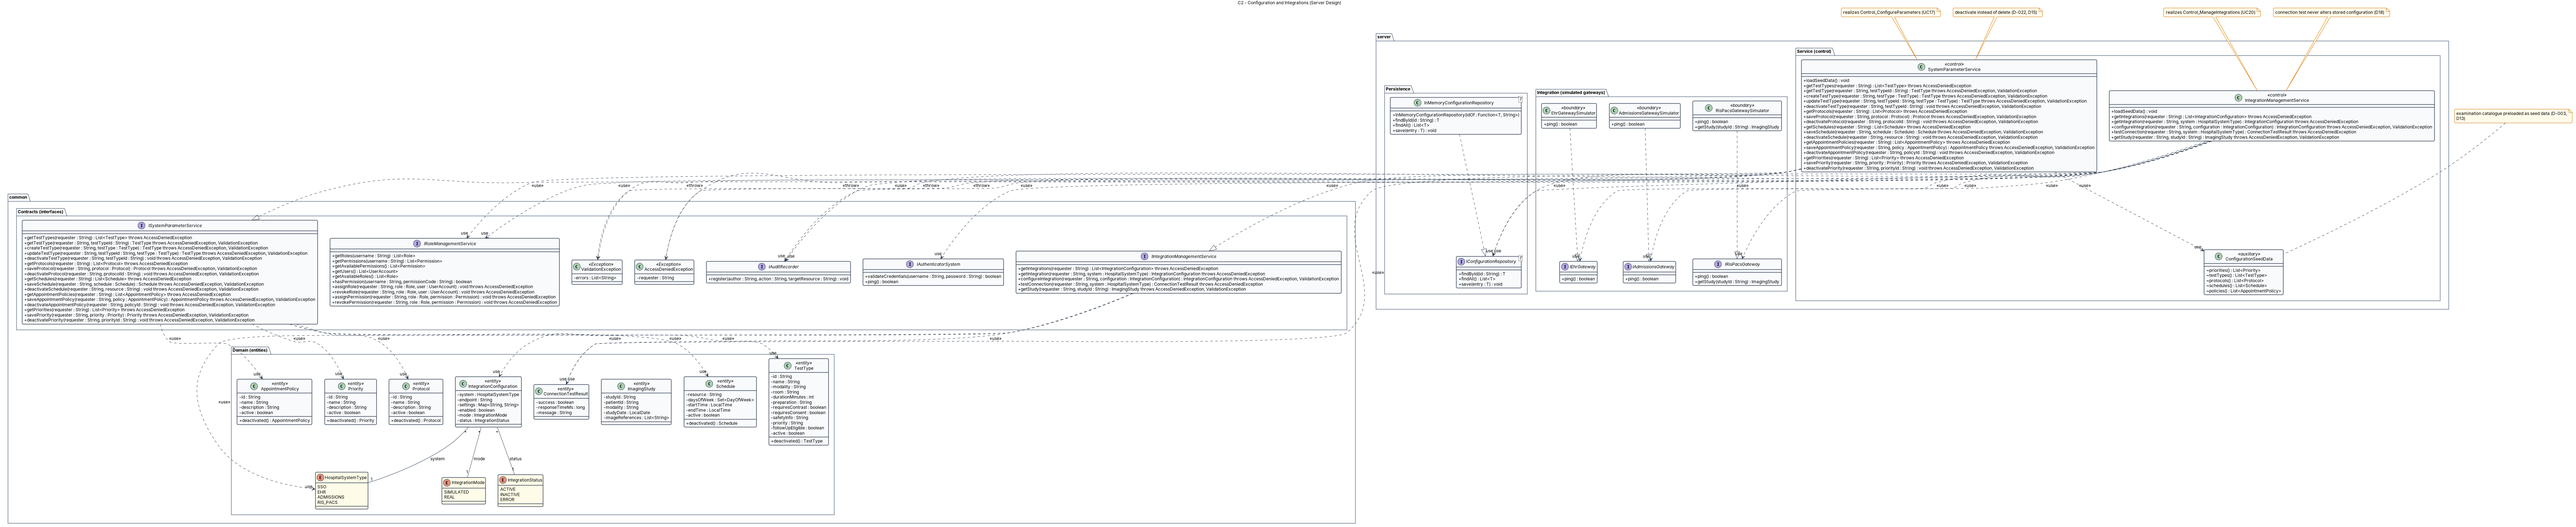
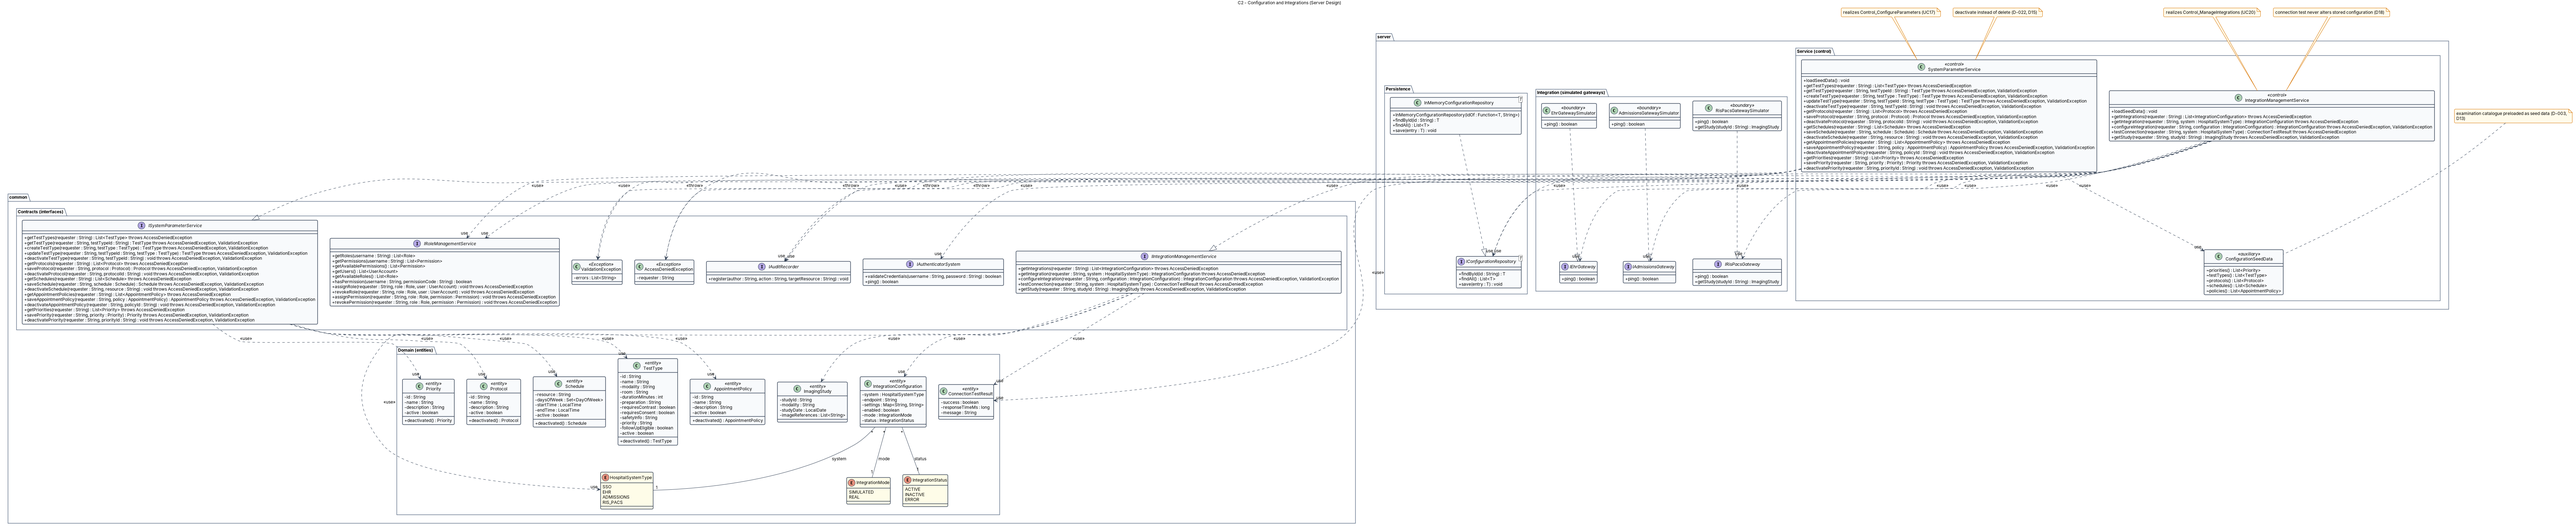
docs(UC09): apply review of #225 – reviewer access, audit, getStudy and C5 guards (#193)

diff --git a/doc/plans/C7-design.md b/doc/plans/C7-design.md
@@ -62,9 +62,9 @@ Open items of #193 §10 and AN-C7 D57–D67, answered by Denis (owner of C7 Desi
 | Component | Owner | Patch (code) | Diagram change in this PR |
 |---|---|---|---|
 | **C1** (`server-c1-access`) | Ignacio | Add `RECORD_EXECUTIONS` and `WRITE_REPORTS` to `InMemoryPermissionRepository` and grant both to `PHYSICIAN` in `InMemoryRoleRepository` (D57). | None (seed data) |
-| **C2** (`server-c2-configuration`, `common`) | C2 owner | 1) `SystemParameterService.getTestType` also accepts `RECORD_EXECUTIONS` and `WRITE_REPORTS`. 2) *(UC09)* New `ImagingStudy` in `common`, `getStudy(studyId)` on `IRisPacsGateway`/`RisPacsGatewaySimulator`, and `getStudy(requester, studyId)` on `IIntegrationManagementService`/`IntegrationManagementService`, requiring `WRITE_REPORTS` (D67). | Step 2: `C2-common.puml`, `C2-server-design.puml` |
+| **C2** (`server-c2-configuration`, `common`) | C2 owner | 1) `SystemParameterService.getTestType` also accepts `RECORD_EXECUTIONS` and `WRITE_REPORTS`. 2) *(UC09)* New `ImagingStudy` in `common`, `getStudy(studyId)` on `IRisPacsGateway`/`RisPacsGatewaySimulator`, and `getStudy(requester, studyId)` on `IIntegrationManagementService`/`IntegrationManagementService`, requiring `WRITE_REPORTS` (D67). Behaviour of `getStudy`: blank `studyId` → `ValidationException("The study is required")`; RIS/PACS integration not `ACTIVE` (UC20) → `ValidationException("RIS/PACS is not available")`; otherwise the simulator returns `ImagingStudy(studyId, "SIMULATED", LocalDate.now(clock), [studyId + "-IMG-1", studyId + "-IMG-2", studyId + "-IMG-3"])`. Audit `STUDY_ACCESSED` (`"STUDY:" + studyId`). | Step 2: `C2-common.puml`, `C2-server-design.puml` |
 | **C3** (`server-c3-patients`) | Denis | `PatientService.getPatient` also accepts `RECORD_EXECUTIONS` and `WRITE_REPORTS` (still audits `PATIENT_ACCESSED`, AN-C2-C3 D26). | None |
-| **C5** (`server-c5-appointments`, `common`) | C5 owner | 1) `EXECUTED` in `AppointmentStatus` (D62). 2) `getAppointment(requester, appointmentId)` and `markAppointmentExecuted(requester, appointmentId)` on `IAppointmentService`/`AppointmentService`; `markAppointmentExecuted` rejects cancelled or already executed appointments. 3) `RECORD_EXECUTIONS` accepted by `getAppointment`, `markAppointmentExecuted` and, only when `physician == requester`, `DailyScheduleService.getPhysicianWorklist`. 4) `EXECUTED` appointments do not block free slots differently from `BOOKED` (no change). | Step 1: `C5-common.puml`, `C5-server-design.puml` |
+| **C5** (`server-c5-appointments`, `common`) | C5 owner | 1) `EXECUTED` in `AppointmentStatus` (D62). 2) `getAppointment(requester, appointmentId)` and `markAppointmentExecuted(requester, appointmentId)` on `IAppointmentService`/`AppointmentService`; `markAppointmentExecuted` rejects cancelled or already executed appointments. 3) `RECORD_EXECUTIONS` accepted by `getAppointment`, `markAppointmentExecuted` and, only when `physician == requester`, `DailyScheduleService.getPhysicianWorklist`. 4) `rescheduleAppointment` and `cancelAppointment` also reject `EXECUTED` appointments (`"The appointment " + appointmentId + " has already been executed"`), as must C6's `confirmAppointment` (#186). 5) `EXECUTED` appointments keep occupying their slot, like `BOOKED` (no change in free slots). | Step 1: `C5-common.puml`, `C5-server-design.puml` |
 
 > **Dependency:** UC10 implementation needs UC14 (`DailyScheduleService`) implemented (agents/components.md: UC10
 > depends on UC13, UC14, UC17).
@@ -111,7 +111,7 @@ Open items of #193 §10 and AN-C7 D57–D67, answered by Denis (owner of C7 Desi
 | `Addendum` «entity» | UC09 | `-addendumId : String`, `-reportId : String`, `-author : String`, `-addedAt : LocalDateTime`, `-text : String` | Persisted, ID `ADD-0001`. Only on VALIDATED reports, never edited (D66). |
 | `ReportableExecutionView` «entity» | UC09 | `-execution : ProcedureExecution`, `-patientName : String`, `-testTypeName : String`, `-report : DiagnosticReport` | Derived view (msg 8); `report` is `null` when there is none yet. |
 | `ReportWorkspaceView` «entity» | UC09 | `-execution : ProcedureExecution`, `-study : ImagingStudy`, `-report : DiagnosticReport`, `-addenda : List<Addendum>` | Derived view (msg 16); `report` may be `null`. |
-| `ImagingStudy` «entity» *(C2 `common`)* | UC09 | `-studyId : String`, `-patientId : String`, `-modality : String`, `-studyDate : LocalDate`, `-imageReferences : List<String>` | Returned by the simulated RIS/PACS (D67). |
+| `ImagingStudy` «entity» *(C2 `common`)* | UC09 | `-studyId : String`, `-modality : String`, `-studyDate : LocalDate`, `-imageReferences : List<String>` | Returned by the simulated RIS/PACS (D67). |
 
 Existing types used: `Appointment`, `AppointmentStatus`, `ScheduleEntry` (C5), `Patient` (C3), `TestType` (C2).
 
@@ -125,7 +125,7 @@ Existing types used: `Appointment`, `AppointmentStatus`, `ScheduleEntry` (C5), `
   - `+getMyReportableExecutions(requester : String) : List<ReportableExecutionView> throws AccessDeniedException`
   - `+openReport(requester : String, executionId : String) : ReportWorkspaceView throws AccessDeniedException, ValidationException`
   - `+saveDraft(requester : String, executionId : String, findings : String, impression : String, imageReferences : List<String>) : DiagnosticReport throws AccessDeniedException, ValidationException`
-  - `+getReportsToValidate(requester : String) : List<DiagnosticReport> throws AccessDeniedException`
+  - `+getReportsToValidate(requester : String) : List<ReportableExecutionView> throws AccessDeniedException`
   - `+validateReport(requester : String, reportId : String) : DiagnosticReport throws AccessDeniedException, ValidationException`
   - `+addAddendum(requester : String, reportId : String, text : String) : Addendum throws AccessDeniedException, ValidationException`
 
@@ -144,7 +144,7 @@ Existing types used: `Appointment`, `AppointmentStatus`, `ScheduleEntry` (C5), `
 
 ### 4. Presentation (`client.reports.presentation`)
 - **`IU_RecordExecution` «boundary» (UC10):** `+IU_RecordExecution(procedureExecutionService : IProcedureExecutionService, requester : String, confirm : Predicate<String>, onBack : Runnable)`, `+loadWorklist(date : LocalDate)`, `+onSelectProcedure(appointmentId : String)`, `+onSaveExecution()`, `+showWorklist(entries : List<ScheduleEntry>)`, `+showEmptyWorklist()`, `+showExecutionForm(form : ExecutionFormView)`, `+showErrors(errors : List<String>)`, `+showAccessDenied()`, `+showConfirmation(message : String)`
-- **`IU_DiagnosticReports` «boundary» (UC09):** `+IU_DiagnosticReports(diagnosticReportService : IDiagnosticReportService, requester : String, confirm : Predicate<String>, onBack : Runnable)`, `+loadData()`, `+onOpenReport(executionId : String)`, `+onSaveDraft(executionId : String, findings : String, impression : String, imageReferences : List<String>)`, `+onValidateReport(reportId : String)`, `+onAddAddendum(reportId : String, text : String)`, `+showExecutions(executions : List<ReportableExecutionView>)`, `+showReportsToValidate(reports : List<DiagnosticReport>)`, `+showWorkspace(workspace : ReportWorkspaceView)`, `+showErrors(errors : List<String>)`, `+showAccessDenied()`, `+showConfirmation(message : String)`
+- **`IU_DiagnosticReports` «boundary» (UC09):** `+IU_DiagnosticReports(diagnosticReportService : IDiagnosticReportService, requester : String, confirm : Predicate<String>, onBack : Runnable)`, `+loadData()`, `+onOpenReport(executionId : String)`, `+onSaveDraft(executionId : String, findings : String, impression : String, imageReferences : List<String>)`, `+onValidateReport(reportId : String)`, `+onAddAddendum(reportId : String, text : String)`, `+showExecutions(executions : List<ReportableExecutionView>)`, `+showReportsToValidate(reports : List<ReportableExecutionView>)`, `+showWorkspace(workspace : ReportWorkspaceView)`, `+showErrors(errors : List<String>)`, `+showAccessDenied()`, `+showConfirmation(message : String)`
 
 ---
 
@@ -173,13 +173,13 @@ All validation errors of one call are collected into one `ValidationException`; 
 
 ### UC09 – `DiagnosticReportService`
 1. **Permission (D57, D58):** every operation requires `WRITE_REPORTS`; on failure `register(requester, "ACCESS_DENIED", "WRITE_REPORTS")` and `AccessDeniedException`.
-2. **`getMyReportableExecutions`:** executions with `physician == requester` and `performed == true`, newest first, each with patient full name, test type name and its report (or `null`). Audit `REPORTS_ACCESSED` (`"REPORTS:" + requester`).
-3. **Execution checks (`openReport`, `saveDraft`):** blank id → `"The procedure is required"`; not found → `"There is no procedure execution with the id " + executionId`; `!performed` → `"The procedure " + executionId + " was not performed, so it cannot have a report"`; `physician ≠ requester` → `"The patient of procedure " + executionId + " is not assigned to you"`.
-4. **`openReport`:** returns the workspace with `integrationManagementService.getStudy(requester, appointmentId)`, the report (or `null`) and its addenda, oldest first. If RIS/PACS fails, `study` is `null` and the screen shows the message below.
-5. **`saveDraft`:** report of the execution already `VALIDATED` → `"The report is validated and cannot be edited; add an addendum instead"`. `findings` and `impression` required (`"The findings are required"`, `"The impression is required"`), at most 4000 characters each (`"The findings must be at most 4000 characters"`, `"The impression must be at most 4000 characters"`). `imageReferences` may be empty (`null` → empty); every reference must belong to the study (`"The image " + ref + " does not belong to the study of this procedure"`). Creates the DRAFT (`REP-0001`…, `author = requester`, `createdAt = now`) or updates the existing draft. Audit `REPORT_SAVED` (`"REPORT:" + reportId`).
-6. **`getReportsToValidate`:** reports with status `DRAFT` and `author ≠ requester`, oldest first. No own audit event.
-7. **`validateReport`:** blank id → `"The report is required"`; not found → `"There is no report with the id " + reportId`; `VALIDATED` → `"The report " + reportId + " is already validated"`; `author == requester` → `"You cannot validate your own report; another physician must review it"`. Saves `validated(requester, now)`. Audit `REPORT_VALIDATED`.
-8. **`addAddendum`:** report checks as above; `DRAFT` → `"The report is still a draft; edit the draft instead"`; the physician of its execution ≠ requester → `"The patient of report " + reportId + " is not assigned to you"`; `text` required (`"The addendum text is required"`), at most 2000 characters (`"The addendum must be at most 2000 characters"`). Saves (`ADD-0001`…). Audit `ADDENDUM_ADDED` (`"ADDENDUM:" + addendumId`). The report text never changes.
+2. **`getMyReportableExecutions`:** executions with `physician == requester` and `performed == true`, newest first, each with patient full name, test type name and its report (or `null`). Audit `REPORTS_ACCESSED` with target `"PATIENTS:" + ` the distinct patient ids joined by `,` (UC09 msg 7).
+3. **Execution checks:** blank id → `"The procedure is required"`; not found → `"There is no procedure execution with the id " + executionId`; `!performed` → `"The procedure " + executionId + " was not performed, so it cannot have a report"`. **Assignment check** (`saveDraft` only, UC09 msg 21): `physician ≠ requester` → `"The patient of procedure " + executionId + " is not assigned to you"`.
+4. **`openReport`:** execution checks, then access is allowed when the requester is the physician of the execution (**author mode**) **or** the execution has a `DRAFT` report whose author is not the requester (**review mode**, second opinion, D65); otherwise `"The patient of procedure " + executionId + " is not assigned to you"`. Returns the workspace with the report (or `null`), its addenda (oldest first) and the study: `integrationManagementService.getStudy(requester, appointmentId)`; if it throws `ValidationException`, `study` is `null` and the screen shows the RIS/PACS message below. No own audit event (C2 audits `STUDY_ACCESSED`).
+5. **`saveDraft`:** report of the execution already `VALIDATED` → `"The report is validated and cannot be edited; add an addendum instead"`. `findings` and `impression` required (`"The findings are required"`, `"The impression is required"`), at most 4000 characters each (`"The findings must be at most 4000 characters"`, `"The impression must be at most 4000 characters"`). `imageReferences` may be empty (`null` → empty): then `getStudy` is **not** called, so a draft can be saved while RIS/PACS is unavailable. When it is not empty, `getStudy` is called and every reference must belong to the study (`"The image " + ref + " does not belong to the study of this procedure"`); if `getStudy` fails → `"The images could not be checked because RIS/PACS is not available; save the draft without images or try again later"`. Creates the DRAFT (`REP-0001`…, `author = requester`, `createdAt = now`) or updates the existing draft. Audit `REPORT_SAVED` (`"REPORT:" + reportId`).
+6. **`getReportsToValidate`:** reports with status `DRAFT` and `author ≠ requester`, oldest first, each as a `ReportableExecutionView` (execution, patient full name, test type name, report). Audit `REPORTS_ACCESSED` with target `"REPORTS:" + ` the report ids joined by `,` (UC09 msg 31, D58).
+7. **`validateReport`:** blank id → `"The report is required"`; not found → `"There is no report with the id " + reportId`; `VALIDATED` → `"The report " + reportId + " is already validated"`; `author == requester` → `"You cannot validate your own report; another physician must review it"`. Saves `validated(requester, now)`. Audit `REPORT_VALIDATED` (`"REPORT:" + reportId`).
+8. **`addAddendum`:** report checks as above; `DRAFT` → `"The report is still a draft; edit the draft instead"`; the physician of its execution ≠ requester → `"The patient of report " + reportId + " is not assigned to you"`; `text` required (`"The addendum text is required"`), at most 2000 characters (`"The addendum must be at most 2000 characters"`). Saves (`ADD-0001`…). Audit `ADDENDUM_ADDED` (`"REPORT:" + reportId`, UC09 msg 47). The report text never changes.
 
 ### User-facing texts & UI flows
 
@@ -192,11 +192,12 @@ All validation errors of one call are collected into one `ValidationException`; 
 | `IU_RecordExecution` | Success | `"Execution " + executionId + " recorded for appointment " + appointmentId + "."` plus `" The incident has been registered."` when there is one; the worklist is reloaded |
 | `IU_RecordExecution` | Reload failure / access denied | `"Execution recorded, but the worklist could not be refreshed."` · `"Access denied: you do not have permission to record procedure executions."` (inputs disabled, `Back` enabled) |
 | `IU_DiagnosticReports` | Title, tabs, empty | Title `"Diagnostic Reports"`; tabs `My procedures` and `Reports to validate`; empty `"You have no performed procedures to report."` / `"There are no reports waiting for validation."` |
-| `IU_DiagnosticReports` | Columns | `My procedures`: `Date`, `Execution`, `Patient`, `Test type`, `Report` (`"—"`, `"Draft"`, `"Validated"`). `Reports to validate`: `Report`, `Patient`, `Author`, `Created` |
-| `IU_DiagnosticReports` | Workspace | List `Study images` (check the ones to link); fields `Findings`, `Impression`; read-only list `Addenda`; field `New addendum`; buttons `Save draft`, `Validate report`, `Add addendum`, `Back`. `Save draft` is disabled for a validated report, `Add addendum` for a draft |
+| `IU_DiagnosticReports` | Columns | `My procedures`: `Date`, `Execution`, `Patient`, `Test type`, `Report` (`"—"`, `"Draft"`, `"Validated"`). `Reports to validate`: `Report`, `Patient` (full name), `Test type`, `Author`, `Created` |
+| `IU_DiagnosticReports` | Workspace | List `Study images` (check the ones to link); fields `Findings`, `Impression`; read-only list `Addenda`; field `New addendum`; buttons `Save draft`, `Validate report`, `Add addendum`, `Back` |
+| `IU_DiagnosticReports` | Enablement | **Author mode** (own procedure): no report or `DRAFT` → `Study images`, `Findings`, `Impression` and `Save draft` enabled, `Validate report` and `Add addendum` disabled; `VALIDATED` → all read-only except `New addendum` and `Add addendum`. **Review mode** (another physician's `DRAFT`, opened from *Reports to validate*): everything read-only, only `Validate report` and `Back` enabled |
 | `IU_DiagnosticReports` | Confirmation question | Validate: `"Validate report " + reportId + "? A validated report cannot be edited."` — declined: nothing is sent |
 | `IU_DiagnosticReports` | Success | `"Report " + reportId + " saved as draft."` · `"Report " + reportId + " validated."` · `"Addendum " + addendumId + " added to report " + reportId + "."` |
-| `IU_DiagnosticReports` | Study / access denied | `"The images of this study could not be loaded from RIS/PACS."` · `"Access denied: you do not have permission to write diagnostic reports."` |
+| `IU_DiagnosticReports` | Study / reload failure / access denied | `"The images of this study could not be loaded from RIS/PACS."` · `"Action completed, but the lists could not be refreshed."` · `"Access denied: you do not have permission to write diagnostic reports."` (inputs disabled, `Back` enabled) |
 
 ---
 
@@ -220,7 +221,8 @@ Source: [`C7-client-design.puml`](../design/C7-client-design.puml)
 ## Steps
 Tick each step with the hash of its commit.
 - [x] 1. **UC10 (C7 `1.0.0`):** this plan (with the *Design diagrams* previews); `C7-common.puml`, `C7-server-design.puml`, `C7-client-design.puml` (UC10 scope); `C5-common.puml`, `C5-server-design.puml` (EXECUTED, `getAppointment`, `markAppointmentExecuted`); `C7-context.md`; `C7-server-design.png`, `C7-client-design.png`. (`9c2b659`)
-- [x] 2. **UC09 (C7 `1.1.0`):** extend the C7 files with `DiagnosticReport`, `ReportStatus`, `Addendum`, the views, `IDiagnosticReportService`, `DiagnosticReportService`, repositories and `IU_DiagnosticReports`; `C2-common.puml`, `C2-server-design.puml` (`ImagingStudy`, `getStudy`); C7, C2 and C5 PNGs re-rendered.
+- [x] 2. **UC09 (C7 `1.1.0`):** extend the C7 files with `DiagnosticReport`, `ReportStatus`, `Addendum`, the views, `IDiagnosticReportService`, `DiagnosticReportService`, repositories and `IU_DiagnosticReports`; `C2-common.puml`, `C2-server-design.puml` (`ImagingStudy`, `getStudy`); C7, C2 and C5 PNGs re-rendered. (`cf6da7d`)
+- [x] 2b. **Review fixes (PR #225, Marcos):** reviewer can open a draft (review mode), `REPORTS_ACCESSED` on `getReportsToValidate`, audit targets, `getStudy` behaviour, `EXECUTED` guards in the C5 patch, screen enablement and texts, `ImagingStudy` dependency in C2, one row per sub-issue in `C7-context.md`.
 - [ ] 3. **Sync with `develop`:** after #186 (C6 design) is merged, `git merge origin/develop` and re-render the C5 and C7 PNGs so `Appointment` shows `confirmedByPatient`. Skipped if this PR is merged first.
 
 ## Verification

diff --git a/doc/plans/C7-context.md b/doc/plans/C7-context.md
@@ -43,8 +43,11 @@
 ## Sub-issues
 | Issue | Branch | Status |
 |---|---|---|
-| #195, #196 UC10 – Client, Server (C7 v1.0.0) | `feature/UC10-client`, `feature/UC10-server` | open (design in `feature/c7-design`) |
-| #198, #199 UC09 – Client, Server (C7 v1.1.0) | `feature/UC09-client`, `feature/UC09-server` | open (design in `feature/c7-design`) |
+| #195 UC10 – Client (C7 v1.0.0) | `feature/UC10-client` | open |
+| #196 UC10 – Server (C7 v1.0.0) | `feature/UC10-server` | open |
+| #198 UC09 – Client (C7 v1.1.0) | `feature/UC09-client` | open |
+| #199 UC09 – Server (C7 v1.1.0) | `feature/UC09-server` | open |
+| #193 C7 design (UC10, UC09) | `feature/c7-design` | PR #225 open |
 
 ## Links
 - Use case issues: #194 (UC10), #197 (UC09) · analysis: [AN-C7-DECISIONS.md](../analysis/AN-C7-DECISIONS.md),
